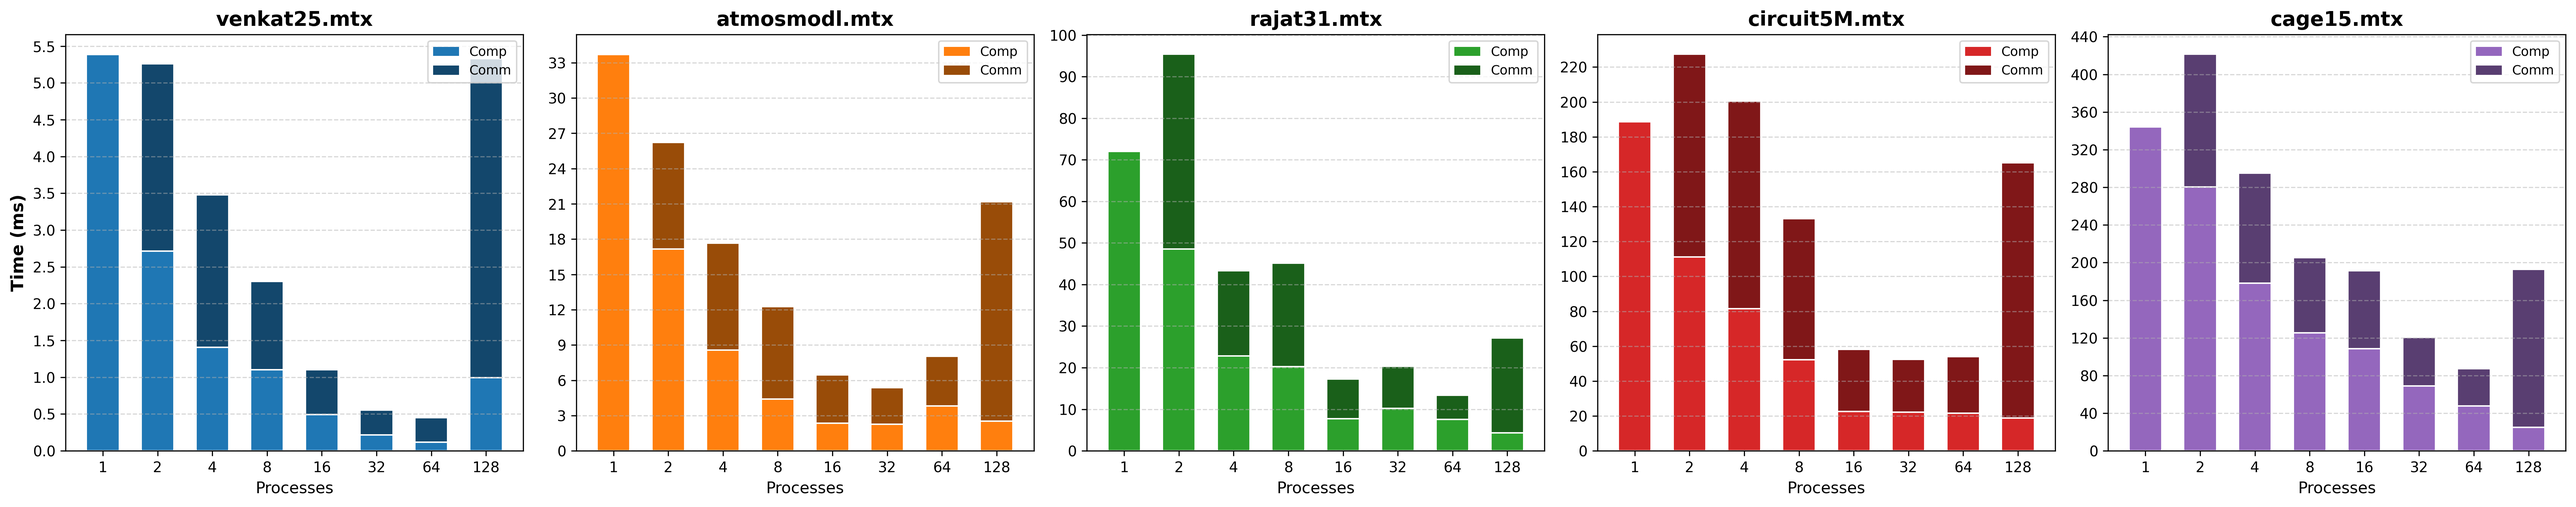
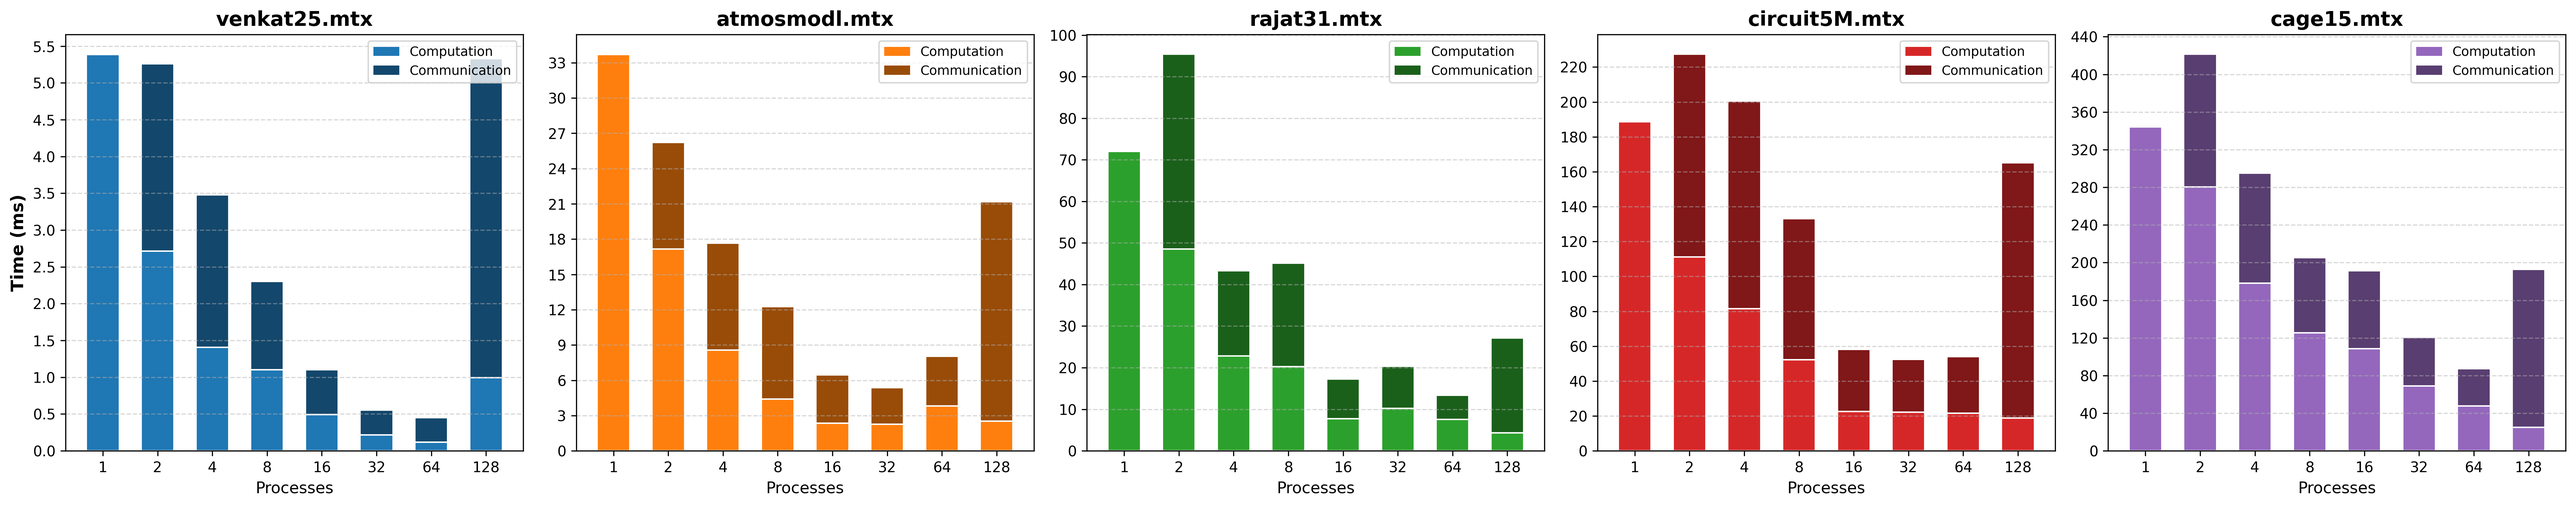
modified a plots script and the README

diff --git a/D2/scripts/plots_strong_scaling_bars.py b/D2/scripts/plots_strong_scaling_bars.py
@@ -99,8 +99,8 @@ for col_idx, mat in enumerate(MATRIX_ORDER):
         ax.yaxis.set_major_locator(ticker.MaxNLocator(nbins=12))
         
         legend_elements = [
-            Patch(facecolor=base_color, label='Comp'),
-            Patch(facecolor=darker_color, label='Comm')
+            Patch(facecolor=base_color, label='Computation'),
+            Patch(facecolor=darker_color, label='Communication')
         ]
         ax.legend(handles=legend_elements, loc='upper right', fontsize=9)
     else:

diff --git a/D2/README.md b/D2/README.md
@@ -24,10 +24,10 @@
       <a href="#about-the-project">About The Project</a>
     </li>
     <li>
-      <a href="#project-structure">Project Structure</a></li>
+      <a href="#project-structure">Project Structure</a>
     </li>
     <li>
-      <a href="#reproducibility">Reproducibility</a></li>
+      <a href="#reproducibility">Reproducibility</a>
     </li>
     <li><a href="#contact">Contact</a></li>
   </ol>
@@ -40,16 +40,17 @@
 
 Efficiently parallelizing Sparse Matrix-Vector (SpMV) multiplication is a significant challenge due to workload imbalance and irregular memory access patterns.
 
-We implemented distributed SpMV using **MPI** with **1D cyclic row partitioning**. We benchmarked Strong Scaling metrics on real matrices from the [SuiteSparse Matrix Collection](https://sparse.tamu.edu/) and Weak Scaling on syntethic matrices:
+We implemented distributed SpMV using **MPI** with **1D cyclic row partitioning**. We benchmarked strong scaling metrics on real matrices from the [SuiteSparse Matrix Collection](https://sparse.tamu.edu/) and weak scaling on synthetic matrices:
 
 - **Strong Scaling**: Fixed problem size, increasing processes (1-128)
 - **Weak Scaling**: Proportional problem growth with processes
 
 ### Parallelization Strategy
 
-* **1D Cyclic Row Distribution**: Rows assigned round-robin to processes
-* **Ghost Pattern**: Pre-computed communication pattern for off-process elements
-* **MPI Collectives**: `MPI_Allgatherv` for initial distribution, point-to-point for ghost exchange
+* **Data Format:** Compressed Sparse Row (CSR)
+* **1D Cyclic Row Distribution**: Rows are assigned to ranks using `row_index % P` in a cyclic manner
+* **Ghost Pattern**: Dynamically mapped at runtime using `MPI_Alltoall` to identify off-process dependencies.
+* **MPI Collectives**: Initial setup uses `MPI_Bcast` for global dimensions, followed by point-to-point distribution of row data, and Collectives (`MPI_Alltoallv`) for ghost exchange.
 
 ### Performance Metrics
 
@@ -61,31 +62,40 @@ We implemented distributed SpMV using **MPI** with **1D cyclic row partitioning*
 
 ### Key Results
 
-* **Performance:** a
-* **Bottleneck:** b
+* **Performance:**
+
+  * Achieved a maximum speedup of **11.9x** on 64 processes for the `venkat25`
+  * Reached a peak computational throughput of **28.85 GFLOPS**
+  * Weak scaling demonstrated near-ideal algorithmic scalability, maintaining constant local computation time and a steady ghost overhead of ~0.017 MB/rank
+
+* **Bottleneck:** 
+
+  * **Strong Scaling:** Performance was constrained by **communication latency** for structured matrices (e.g., `atmosmodl`) and **load imbalance** for highly unstructured ones (e.g., `circuit5M`), highlighting the limits of 1D partitioning for irregular sparsity patterns
+  * **Weak Scaling:** Parallel efficiency decreased at scale due to **latency dominance**; the small fixed local workload (approx. 2,560 nonzeros per rank) was insufficient to hide the latency cost of establishing communication via `MPI_Alltoallv`
 
 <p align="right">(<a href="#readme-top">back to top</a>)</p>
 
 ## Project Structure
 
 ```text
-  .
-  ├── data/                            # Matrices folder
-  │   ├── set_up_matrices.sh           # Download/generate the matrices in the data folder
-  │   └── generate_weak_matrices.py    # Python script for synthetic matrices
-  ├── plots/                           # Generated performance graphs
-  ├── results/                         # Benchmark CSV outputs
-  ├── scripts/                         # Helper scripts
-  │   ├── *_scaling.pbs                # Job submissions
-  │   ├── benchmark_*.sh               # Benchmark locally
-  │   └── plots_*.py                   # Python scripts for generating plots
-  ├── src/                             # Source code
-  │   ├── main.c                       # Main code where SpMV is used
-  │   ├── mmio.c                       # Matrix Market I/O helper
-  │   ├── distribution.c               # Cyclic row distribution across MPI ranks
-  │   ├── ghost_entries.c              # Ghost pattern building and communication
-  |   └── matrix.c                     # SpMV implementation
-  └── README.md
+  └── D2/
+      ├── data/                            # Matrices folder
+      │   ├── set_up_matrices.sh           # Download/generate the matrices in the data folder
+      │   └── generate_weak_matrices.py    # Python script for synthetic matrices
+      ├── plots/                           # Generated performance graphs
+      ├── results/                         # Benchmark CSV outputs
+      ├── scripts/                         # Helper scripts
+      │   ├── *_scaling.pbs                # Job submissions
+      │   ├── benchmark_*.sh               # Benchmark locally
+      │   └── plots_*.py                   # Python scripts for generating plots
+      ├── src/                             # Source code
+      │   ├── main.c                       # Main code where SpMV is used
+      │   ├── mmio.c                       # Matrix Market I/O helper
+      │   ├── distribution.c               # Cyclic row distribution across MPI ranks
+      │   ├── ghost_entries.c              # Ghost pattern building and communication
+      |   └── matrix.c                     # SpMV implementation
+      ├── include/ 
+      └── README.md
 ```
 
 <p align="right">(<a href="#readme-top">back to top</a>)</p>
@@ -98,9 +108,9 @@ Before running the project, ensure you have the following installed:
 
 * **MPI** (MPICH) support, required for parallel execution;
 
-* **NIST Matrix Market I/O**: The project uses the `mmio.c` and `mmio.h` library (included in `src/`) for parsing `.mtx` files;
+* **NIST Matrix Market I/O**: The project uses the `mmio.c` and `mmio.h` library (included in `src/` and `include/`) for parsing `.mtx` files;
 
-* **Python** for generating synthetic matrices and plots.
+* **Python** for generating synthetic matrices and plots, with **matplotlib**, **pandas** and **numpy**.
 
 ### Instructions
 
@@ -121,7 +131,7 @@ Here are the instructions to reproduce the project locally or in the Unitn clust
 
 3. Now you have two options based on where you want to run the program:
 
-    a. If you want to run it locally you can run the shell scripts, making sure you have executed the permissions:
+    a. If you want to run it locally, you can run the shell scripts, making sure you have executed the permissions:
 
       ```sh
           chmod +x D2/scripts/*.sh
